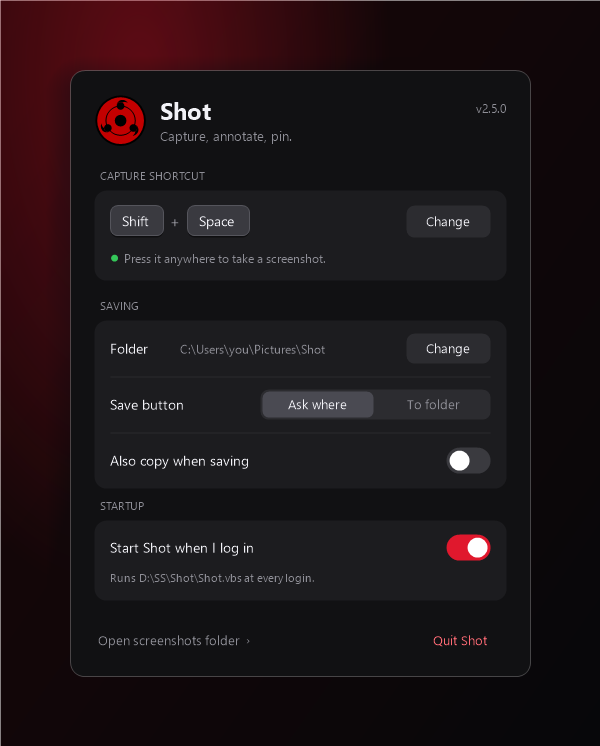
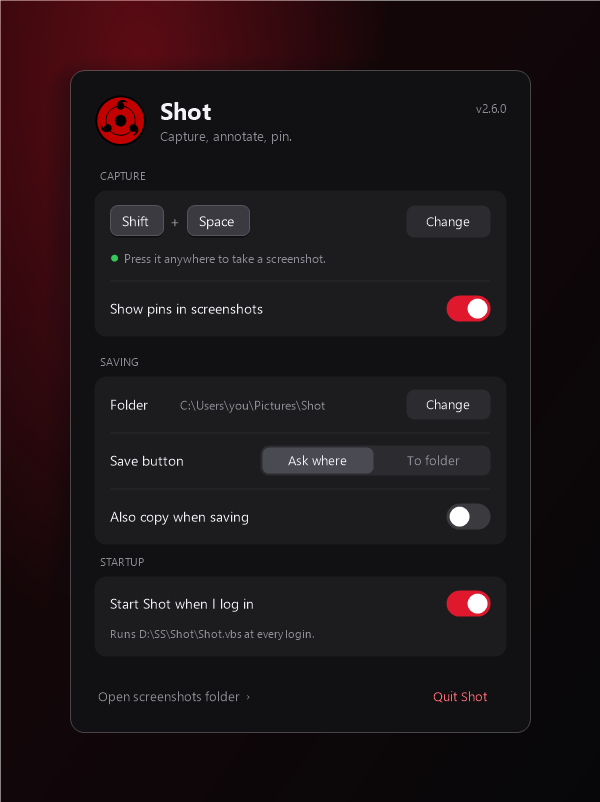
Settings: show pins in screenshots
Pins stepped aside for every capture. A new switch in Settings
(Capture card, settings.txt pins_in_shots) keeps them on screen and in
the picture, to capture several pins side by side. Kept pins drop their
hover buttons first, and in the editor a click picks a pin like a
window. Off by default, as before. Version 2.6.0.

diff --git a/Shot.cs b/Shot.cs
@@ -359,6 +359,8 @@ namespace Shot
         /// Save button shows a dialog (true) or saves straight into SaveDir.
         public bool AskWhere = true;
         public bool CopyOnSave;
+        /// Pins stay on screen during a capture (true), or step aside so they are not in it.
+        public bool PinsInShots;
         public Color Color = Ui.Palette[0];
         /// The highlighter keeps its own colour so it stays yellow by default.
         public Color Marker = Ui.Palette[2];
@@ -384,6 +386,7 @@ namespace Shot
                     case "save_dir": if (v.Length > 0) c.SaveDir = Local(v); break;
                     case "save_mode": c.AskWhere = !v.Equals("folder", StringComparison.OrdinalIgnoreCase); break;
                     case "copy_on_save": c.CopyOnSave = v == "true" || v == "yes" || v == "1"; break;
+                    case "pins_in_shots": c.PinsInShots = v == "true" || v == "yes" || v == "1"; break;
                     case "color": if (Ui.TryHex(v, out col)) c.Color = col; break;
                     case "highlighter": if (Ui.TryHex(v, out col)) c.Marker = col; break;
                     case "size": if (int.TryParse(v, out n)) c.Size = Ui.Clamp(n, 1, MaxSize); break;
@@ -403,7 +406,8 @@ namespace Shot
                 "# Capture shortcut, e.g. Shift+Space, PrintScreen, Ctrl+Alt+KeyS\r\nhotkey = " + Hotkey + "\r\n\r\n" +
                 "# Where screenshots are saved. <Pictures> and %USERPROFILE% are whoever uses this copy.\r\nsave_dir = " + Portable(SaveDir) + "\r\n" +
                 "# ask = show a Save dialog; folder = save straight into save_dir\r\nsave_mode = " + (AskWhere ? "ask" : "folder") + "\r\n" +
-                "# Also copy the image to the clipboard when saving (true/false)\r\ncopy_on_save = " + (CopyOnSave ? "true" : "false") + "\r\n\r\n" +
+                "# Also copy the image to the clipboard when saving (true/false)\r\ncopy_on_save = " + (CopyOnSave ? "true" : "false") + "\r\n" +
+                "# Keep pins on screen, and in the picture, when capturing (true/false)\r\npins_in_shots = " + (PinsInShots ? "true" : "false") + "\r\n\r\n" +
                 "# Last used drawing style (updated automatically).\r\ncolor = " + Ui.ToHex(Color) + "\r\nhighlighter = " + Ui.ToHex(Marker) +
                 "\r\nsize = " + Size + "\r\ncustom_colors = " + string.Join(",", Array.ConvertAll(CustomColors,
                     v => Ui.ToHex(Color.FromArgb(v & 255, (v >> 8) & 255, (v >> 16) & 255)))) + "\r\n";
@@ -1712,7 +1716,10 @@ namespace Shot
             if (!hovering || h != hot) { hovering = true; hot = h; Invalidate(); }
             base.OnMouseMove(e);
         }
-        protected override void OnMouseLeave(EventArgs e) { hovering = false; hot = -1; Invalidate(); base.OnMouseLeave(e); }
+        protected override void OnMouseLeave(EventArgs e) { Unhover(); base.OnMouseLeave(e); }
+
+        /// No minimize and close buttons: before a capture that keeps the pins in the picture.
+        internal void Unhover() { if (!hovering) return; hovering = false; hot = -1; Refresh(); }
 
         protected override void OnPaint(PaintEventArgs e)
         {
@@ -1943,8 +1950,8 @@ namespace Shot
         static readonly Color BG = Ui.Hex(0x111113), CARD = Ui.Hex(0x1C1C1F), DIVIDER = Ui.Hex(0x2A2A2E), TEXT = Ui.Hex(0xF2F2F7),
             MUTED = Ui.Hex(0x8E8E96), CONTROL = Ui.Hex(0x2C2C30), CONTROL_HOVER = Ui.Hex(0x3A3A40), KNOB_OFF = Ui.Hex(0x3A3A3F),
             ACCENT = Ui.Hex(0xE0182D), GOOD = Ui.Hex(0x34C759);
-        const float W = 460, H = 606, Pad = 24, Inner = W - Pad * 2;
-        enum Hit { None = -1, Hotkey, ChangeFolder, ModeAsk, ModeFolder, CopyOnSave, Autostart, OpenFolder, Quit }
+        const float W = 460, H = 662, Pad = 24, Inner = W - Pad * 2;
+        enum Hit { None = -1, Hotkey, PinsInShots, ChangeFolder, ModeAsk, ModeFolder, CopyOnSave, Autostart, OpenFolder, Quit }
 
         readonly float sc;
         readonly Bitmap logo;
@@ -1971,19 +1978,20 @@ namespace Shot
         Rectangle R(float x, float y, float w, float h) { return new Rectangle(S(x), S(y), S(w), S(h)); }
         Rectangle RightOf(float y, float h, float w, float rh) { return R(Pad + Inner - 16 - w, y + (h - rh) / 2, w, rh); }
 
-        const float C1 = 120, C2 = 250, C3 = 450;
+        const float C1 = 120, C2 = 306, C3 = 506;
         Rectangle Zone(Hit h)
         {
             switch (h)
             {
                 case Hit.Hotkey: return R(Pad, C1, Inner, 62);
+                case Hit.PinsInShots: return R(Pad, C1 + 90, Inner, 56);
                 case Hit.ChangeFolder: return RightOf(C2, 56, 84, 30);
                 case Hit.ModeAsk: return R(Pad + Inner - 16 - 230, C2 + 69, 115, 30);
                 case Hit.ModeFolder: return R(Pad + Inner - 16 - 115, C2 + 69, 115, 30);
                 case Hit.CopyOnSave: return R(Pad, C2 + 112, Inner, 56);
                 case Hit.Autostart: return R(Pad, C3, Inner, 54);
-                case Hit.OpenFolder: return R(Pad, 556, 200, 28);
-                case Hit.Quit: return R(Pad + Inner - 92, 556, 92, 28);
+                case Hit.OpenFolder: return R(Pad, 612, 200, 28);
+                case Hit.Quit: return R(Pad + Inner - 92, 612, 92, 28);
             }
             return Rectangle.Empty;
         }
@@ -2019,6 +2027,7 @@ namespace Shot
             else if (h == Hit.ModeAsk) { cfg.AskWhere = true; App.SaveConfig(); }
             else if (h == Hit.ModeFolder) { cfg.AskWhere = false; App.SaveConfig(); }
             else if (h == Hit.CopyOnSave) { cfg.CopyOnSave = !cfg.CopyOnSave; App.SaveConfig(); }
+            else if (h == Hit.PinsInShots) { cfg.PinsInShots = !cfg.PinsInShots; App.SaveConfig(); }
             else if (h == Hit.Autostart) App.SetAutostart(!App.AutostartOn());
             else if (h == Hit.OpenFolder) App.OpenFolder();
             else if (h == Hit.Quit) App.Quit();
@@ -2079,8 +2088,8 @@ namespace Shot
             string ver = "v" + App.Version;
             Ui.Text(g, ver, Ui.Font(P(12)), MUTED, P(W - 24) - Ui.Measure(ver, Ui.Font(P(12))).Width, P(30));
 
-            string[] labels = { "CAPTURE SHORTCUT", "SAVING", "STARTUP" };
-            float[] ys = { C1, C2, C3 }, hs = { 90, 168, 80 };
+            string[] labels = { "CAPTURE", "SAVING", "STARTUP" };
+            float[] ys = { C1, C2, C3 }, hs = { 146, 168, 80 };
             for (int i = 0; i < 3; i++)
             {
                 Ui.Text(g, labels[i], Ui.Font(P(11)), MUTED, P(30), P(ys[i] - 22));
@@ -2105,6 +2114,10 @@ namespace Shot
                 Ui.Text(g, note, Ui.Font(P(12)), MUTED, P(54), ny);
             }
             else Ui.Text(g, note, Ui.Font(P(12)), App.Recording ? MUTED : ACCENT, P(40), ny);
+
+            Divider(g, S(C1 + 90));
+            TextMid(g, "Show pins in screenshots", P(40), P(C1 + 118), P(14), TEXT);
+            Toggle(g, RightOf(C1 + 90, 56, 44, 26), cfg.PinsInShots);
 
             // Saving card.
             Divider(g, S(C2 + 56));
@@ -3084,7 +3097,7 @@ namespace Shot
 
     public static class App
     {
-        public const string Version = "2.5.0";
+        public const string Version = "2.6.0";
         const string Fallback = "Ctrl+PrintScreen";
         const string RunKey = @"Software\Microsoft\Windows\CurrentVersion\Run";
 
@@ -3374,9 +3387,12 @@ namespace Shot
             if (overlay != null || host == null) return;
             if (toast != null) toast.Close();
             // Pins and the spotlight must not end up in the screenshot; give the compositor a moment.
+            // Pins stay in the picture when Settings says so; then a click in the editor can pick one.
+            bool keepPins = Cfg.PinsInShots;
+            // A moment for the screen to catch up: pins hidden, or redrawn without their buttons.
             bool hide = Pins.Count > 0 || spotlight != null;
             if (spotlight != null) ToggleSpotlight();
-            foreach (var p in Pins) p.Visible = false;
+            foreach (var p in Pins) { if (keepPins) p.Unhover(); else p.Visible = false; }
             if (hide) Thread.Sleep(80);
             Bitmap shot;
             var v = SystemInformation.VirtualScreen;
@@ -3391,7 +3407,7 @@ namespace Shot
                 ShowToast("Capture failed: " + e.Message, 4);
                 return;
             }
-            var wins = WindowRects(v.Location);
+            var wins = WindowRects(v.Location, keepPins ? Pins.ConvertAll(p => p.Handle) : new List<IntPtr>());
             foreach (var p in Pins) p.Visible = true;
             var mons = new List<Rectangle>();
             var scales = new List<float>();
@@ -3408,7 +3424,7 @@ namespace Shot
         }
 
         /// Visible top-level windows of other apps, topmost first, in capture coordinates.
-        static List<Rectangle> WindowRects(Point origin)
+        static List<Rectangle> WindowRects(Point origin, List<IntPtr> pins)
         {
             var list = new List<Rectangle>();
             uint me = (uint)Process.GetCurrentProcess().Id;
@@ -3420,7 +3436,7 @@ namespace Shot
                 if (!Native.IsWindowVisible(h) || Native.IsIconic(h)) return true;
                 if (Native.DwmGetWindowAttribute(h, 14, out cloaked, 4) == 0 && cloaked != 0) return true;
                 Native.GetWindowThreadProcessId(h, out pid);
-                if (pid == me) return true;
+                if (pid == me && !pins.Contains(h)) return true;
                 if (Native.DwmGetWindowAttribute(h, 9, out r, 16) != 0 && !Native.GetWindowRect(h, out r)) return true;
                 var rc = Rectangle.FromLTRB(r.L - origin.X, r.T - origin.Y, r.R - origin.X, r.B - origin.Y);
                 if (rc.Width > 8 && rc.Height > 8) list.Add(rc);
@@ -3583,9 +3599,9 @@ namespace Shot
             check(!Shortcut.Parse("Ctrl+Nope", out mods, out vk), "unknown key refused");
             check(Shortcut.CodeOf(Keys.S) == "KeyS" && Shortcut.CodeOf(Keys.D1) == "Digit1", "key codes");
 
-            var c = new Config { Hotkey = "Ctrl+Shift+KeyA", AskWhere = false, CopyOnSave = true, Size = 7, Color = Ui.Hex(0x123456), Marker = Ui.Palette[3], CustomColors = new[] { 0x563412, 0xFFFFFF } };
+            var c = new Config { Hotkey = "Ctrl+Shift+KeyA", AskWhere = false, CopyOnSave = true, PinsInShots = true, Size = 7, Color = Ui.Hex(0x123456), Marker = Ui.Palette[3], CustomColors = new[] { 0x563412, 0xFFFFFF } };
             var d = Config.Parse(c.Render());
-            check(d.Hotkey == c.Hotkey && !d.AskWhere && d.CopyOnSave && d.Size == 7 && d.SaveDir == c.SaveDir
+            check(d.Hotkey == c.Hotkey && !d.AskWhere && d.CopyOnSave && d.PinsInShots && !new Config().PinsInShots && d.Size == 7 && d.SaveDir == c.SaveDir
                 && d.Color.ToArgb() == c.Color.ToArgb() && d.Marker.ToArgb() == c.Marker.ToArgb()
                 && d.CustomColors.Length == 2 && d.CustomColors[0] == 0x563412 && d.CustomColors[1] == 0xFFFFFF, "config round trip");
             string pics = Environment.GetFolderPath(Environment.SpecialFolder.MyPictures), me = Environment.GetFolderPath(Environment.SpecialFolder.UserProfile);

diff --git a/README.md b/README.md
@@ -116,7 +116,9 @@ hold **Shift** for straight lines, squares and circles · **Ctrl + Z / Ctrl + Y*
 **Pins** stay on top: drag to move, drag an **edge or corner** to resize (it keeps its shape), **wheel** to zoom,
 **0** for actual size, **Ctrl + C / S / T** to copy, save or copy the text, **Esc** or double-click to close,
 right-click for a menu. Point at a pin for its **–** and **×** buttons: **–** (or **M**) minimizes it to the
-taskbar, and clicking it there brings it back on top.
+taskbar, and clicking it there brings it back on top. Pins step aside while you take the next screenshot;
+turn on **Show pins in screenshots** in Settings to keep them in it, for example to capture two pins side by
+side (then a click in the editor picks a pin, like a window).
 
 ## Settings
 
@@ -124,7 +126,7 @@ taskbar, and clicking it there brings it back on top.
 
 Open them from the tray icon, or double-click `Shot.vbs` again while Shot runs.
 
-- **Capture shortcut**: click **Change** and press the keys.
+- **Capture**: the shortcut (click **Change** and press the keys), and whether pins stay in your screenshots.
 - **Saving**: the screenshots folder, whether Save asks where or saves straight to the folder, and
   whether saving also copies. The folder belongs to whoever uses this copy: by default their own
   `Pictures\Shot`, so a copy you pass to a friend saves on their PC in their profile, not yours.
